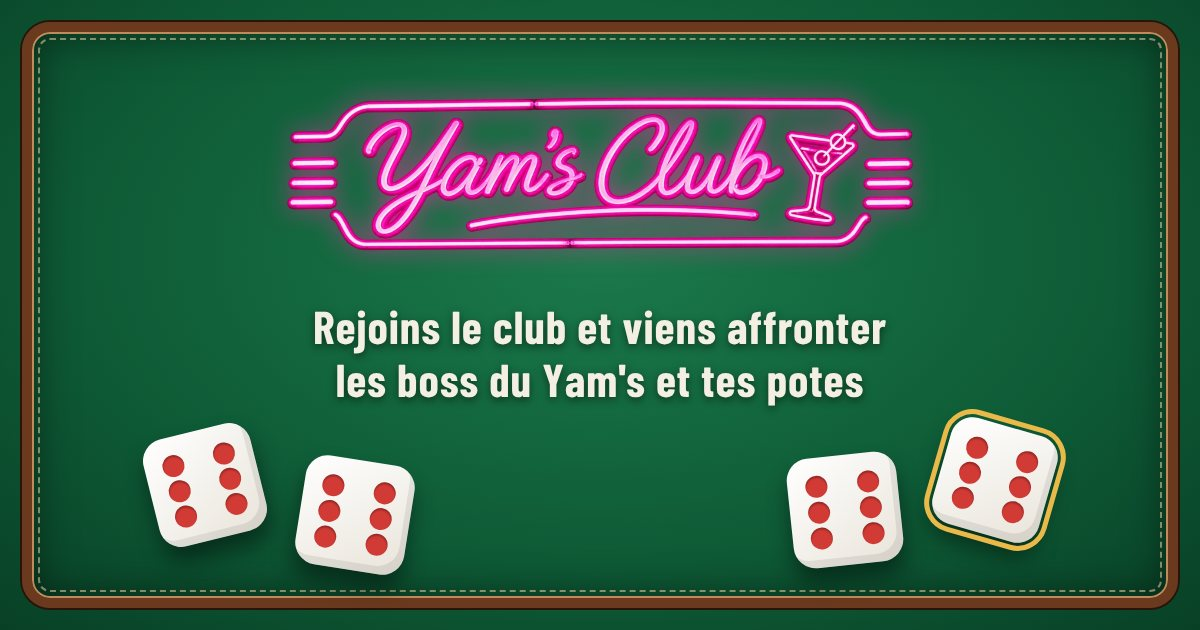
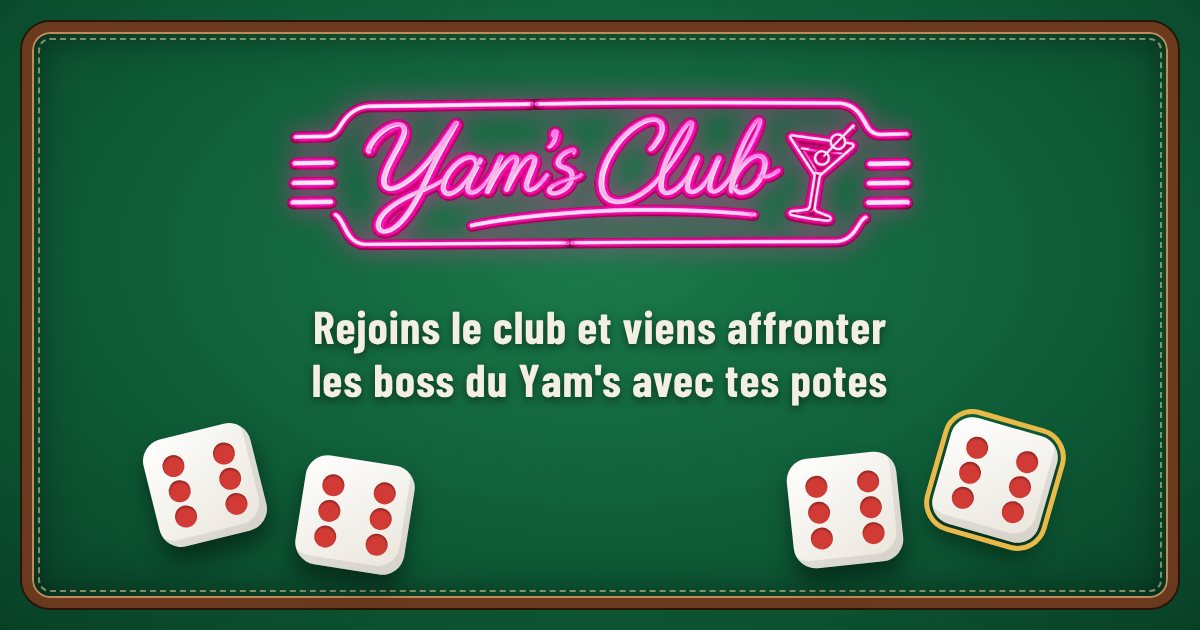
Description : les boss du Yam's avec tes potes

Changed region(s): [[0.2467, 0.573, 0.74, 0.6333]]

diff --git a/index.html b/index.html
@@ -44,17 +44,17 @@
 <link rel="apple-touch-icon" href="icons/apple-touch-icon.png">
 <link rel="icon" type="image/png" sizes="192x192" href="icons/icon-192.png">
 <title>Yam’s Club</title>
-<meta name="description" content="Lance les dés, rejoins le club et viens affronter les boss du Yam’s et tes potes. Yam’s Club, avec la feuille de score qui compte pour toi.">
+<meta name="description" content="Lance les dés, rejoins le club et viens affronter les boss du Yam’s avec tes potes. Yam’s Club, avec la feuille de score qui compte pour toi.">
 <meta property="og:type" content="website">
 <meta property="og:site_name" content="Yam’s Club">
 <meta property="og:locale" content="fr_FR">
 <meta property="og:title" content="Yam’s Club">
-<meta property="og:description" content="Lance les dés, rejoins le club et viens affronter les boss du Yam’s et tes potes. Yam’s Club, avec la feuille de score qui compte pour toi.">
+<meta property="og:description" content="Lance les dés, rejoins le club et viens affronter les boss du Yam’s avec tes potes. Yam’s Club, avec la feuille de score qui compte pour toi.">
 <meta property="og:url" content="https://eltzarine.github.io/yams/">
 <meta property="og:image" content="https://eltzarine.github.io/yams/og-club.jpg">
 <meta property="og:image:width" content="1200">
 <meta property="og:image:height" content="630">
-<meta property="og:image:alt" content="Yam’s Club : rejoins le club et viens affronter les boss du Yam’s et tes potes">
+<meta property="og:image:alt" content="Yam’s Club : rejoins le club et viens affronter les boss du Yam’s avec tes potes">
 <meta name="twitter:card" content="summary_large_image">
 <script>/* ancienne appli installée ouvrant le lien « J'ai battu Nico » : on revient à l'accueil */if(/\/nico\/(index\.html)?$/.test(location.pathname))location.replace("../?utm_source=partage&utm_medium=social&utm_campaign=battu_nico")</script>
 <meta name="color-scheme" content="light dark">
